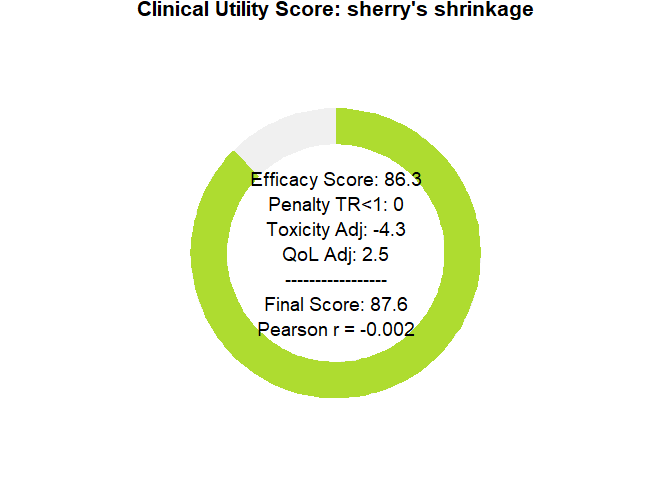
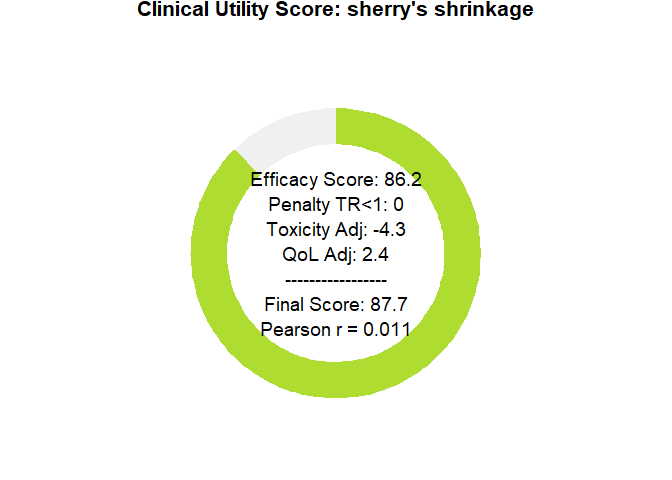
Rebuild README with improved homepage

Changed region(s): [[0.375, 0.625, 0.625, 0.7188], [0.5938, 0.3438, 0.625, 0.4062], [0.5625, 0.5, 0.5938, 0.5625]]

diff --git a/README.md b/README.md
@@ -1,42 +1,69 @@
 
-# bayescores: Comprehensive Quantification of Clinical Benefit in Randomized Controlled Trials Using Bayesian Inference and Multi-Attribute Utility Theory
+# bayescores <img src="man/figures/logo.png" align="right" height="139" />
 
-**`bayescores`** provides a comprehensive toolkit for analyzing
-randomized controlled trials (RCTs). This package introduces the
-**Bayesian Clinical Benefit Scores (BayeScores)**, a novel metric to
-quantify clinical benefit by accounting for both survival prolongation
-and cure rates.
+<!-- badges: start -->
 
-Key Features
+[![R-CMD-check](https://github.com/albertocarm/bayescores/actions/workflows/pkgdown.yaml/badge.svg)](https://github.com/albertocarm/bayescores/actions/workflows/pkgdown.yaml)
+[![Lifecycle:
+experimental](https://img.shields.io/badge/lifecycle-experimental-orange.svg)](https://lifecycle.r-lib.org/articles/stages.html#experimental)
+[![License:
+MIT](https://img.shields.io/badge/License-MIT-blue.svg)](https://opensource.org/licenses/MIT)
+<!-- badges: end -->
 
-- Fit Robust Bayesian Models: Implements Bayesian Accelerated Failure
-  Time (AFT) mixture cure models using Stan. The framework allows you
-  to:
+> **Comprehensive Quantification of Clinical Benefit in Randomized
+> Controlled Trials Using Bayesian Inference and Multi-Attribute Utility
+> Theory**
 
-- Incorporate empirical and skeptical priors to stabilize inference and
-  reduce bias, especially with immature data.
+**`bayescores`** provides a toolkit for analyzing randomized controlled
+trials (RCTs). It introduces the **Bayesian Clinical Benefit Scores
+(BayeScores)**, a novel metric that quantifies clinical benefit by
+jointly accounting for survival prolongation, cure rates, toxicity, and
+quality of life.
 
-- Use the unique properties of AFT mixture cure models to quantify
-  clinical benefit in a novel way.
+## Overview
 
-- Assess Data Maturity: Run a novel non-identifiability test on the
-  model’s parameters. This check serves as a statistical proxy for data
-  maturity, helping to determine if the follow-up is sufficient to
-  reliably estimate the long-term benefit.
+The package implements a full analytical pipeline:
 
-- Calculate Holistic Benefit Scores: Compute the final clinical benefit
-  score, the BayeScores.
+    Trial Data --> Bayesian AFT Cure Model --> Posterior Draws
+                                                   |
+                        +--------------------------+--------------------------+
+                        |                          |                          |
+                  Efficacy Scores          Toxicity Scores            QoL Scores
+                  (TR + Cure Rate)       (Weighted Burden)         (Multinomial)
+                        |                          |                          |
+                        +-----------+--------------+--------------------------+
+                                    |
+                             BayeScores
+                        (Multi-Attribute Utility)
 
-- The score is derived using concave functions to more realistically
-  reflect clinical utility (e.g., ensuring diminishing returns for each
-  additional month of survival).
+## Key Features
 
-- Includes comprehensive visualization tools to display the scores,
-  results, and all model diagnostics.
-
-- Simulate Realistic Scenarios: Generate complex survival data from
+- **Fit Robust Bayesian Models**: Bayesian Accelerated Failure Time
+  (AFT) mixture cure models via Stan.
+  - Incorporate empirical and skeptical priors to stabilize inference
+    and reduce bias, especially with immature data.
+  - Use the unique properties of AFT mixture cure models to quantify
+    clinical benefit in a novel way.
+- **Assess Data Maturity**: A novel non-identifiability test on model
+  parameters serves as a statistical proxy for data maturity, helping
+  determine if follow-up is sufficient to reliably estimate long-term
+  benefit.
+- **Calculate Holistic Benefit Scores**: Compute the BayeScores using
+  concave utility functions that reflect diminishing marginal returns
+  for each additional month of survival.
+- **Visualize Everything**: Comprehensive plotting tools for posterior
+  distributions, donut charts, sensitivity dashboards, AMIT toxicity
+  plots, and model diagnostics.
+- **Simulate Realistic Scenarios**: Generate complex survival data from
   mixture cure models to validate methods, perform power analyses, and
   plan future studies.
+- **Bayesian Shrinkage Priors**: Apply empirical priors from [van Zwet
+  et al. (2021)](https://doi.org/10.1002/sim.9173) or [Sherry et
+  al. (2024)](https://doi.org/10.1200/PO.24.00363) to regularize
+  treatment effects.
+- **IPD Reconstruction**: Reconstruct individual patient data from
+  published Kaplan-Meier curves using the [Guyot et
+  al. (2012)](https://doi.org/10.1186/1471-2288-12-9) algorithm.
 
 ## Installation
 
@@ -224,7 +251,7 @@ print(bayesian_fit$stan_fit, pars = c("beta_cure_arm", "beta_surv_arm", "alpha_c
 #> beta_surv_arm 0.26    0.01 0.29 -0.20 0.06 0.22 0.44  0.90  1677    1
 #> alpha_control 1.22    0.00 0.10  1.02 1.15 1.22 1.29  1.41  1884    1
 #> 
-#> Samples were drawn using NUTS(diag_e) at Fri Jan 30 20:07:42 2026.
+#> Samples were drawn using NUTS(diag_e) at Fri Jan 30 20:17:48 2026.
 #> For each parameter, n_eff is a crude measure of effective sample size,
 #> and Rhat is the potential scale reduction factor on split chains (at 
 #> convergence, Rhat=1).
@@ -560,13 +587,13 @@ cat("--- Final Bayescores Summary ---\n")
 #> --- Final Bayescores Summary ---
 print(final_scores$component_summary)
 #>                        Component    Median Lower_95_CrI.2.5% Upper_95_CrI.97.5%
-#> 1           Utility Cure (0-100) 82.535431           0.00000        93.85172165
-#> 2          Utility TR (for TR>1) 48.801244           0.00000        98.24367936
-#> 3          Penalty TR (for TR<1)  0.000000         -27.23494         0.00000000
-#> 4      Efficacy Score (Combined) 91.451942          65.10802        98.54577821
-#> 5      QoL Contribution (points)  3.953580          -9.68866        20.10829930
-#> 6 Toxicity Contribution (points) -3.268844         -22.13845        -0.05742913
-#> 7            FINAL UTILITY SCORE 92.875119          48.01128        99.87587228
+#> 1           Utility Cure (0-100) 82.535431          0.000000        93.85172165
+#> 2          Utility TR (for TR>1) 48.801244          0.000000        98.24367936
+#> 3          Penalty TR (for TR<1)  0.000000        -27.234938         0.00000000
+#> 4      Efficacy Score (Combined) 91.451942         65.108020        98.54577821
+#> 5      QoL Contribution (points)  3.940021         -9.560371        19.70425563
+#> 6 Toxicity Contribution (points) -3.288842        -22.472809        -0.05507841
+#> 7            FINAL UTILITY SCORE 92.840335         46.636106        99.87624304
 print(final_scores$identifiability_level)
 #> [1] "Strong"
 ```
@@ -684,9 +711,9 @@ comparison <- rbind(
 
 print(comparison)
 #>       prior   Median
-#> 7  unshrunk 92.87512
-#> 71     zwet 78.22219
-#> 72   sherry 87.55711
+#> 7  unshrunk 92.84034
+#> 71     zwet 78.62315
+#> 72   sherry 87.69943
 
 # plot utility donuts for each prior
 plot_utility_donut(final_scores_zwet, trial_name ="Zwet's shrinkage")
@@ -901,50 +928,19 @@ library(bystools)
 
 bystools()
 
-## Why bayescores? a more meaningful approach
+## Why bayescores?
 
-- **Clinically interpretable**: time ratios are easier to explain to
-  clinicians and patients than hazard ratios, and mixture cure models
-  separate short-term survival effects from the long-term survivor
-  fraction. This resolves the problem of “double counting” benefit—first
-  via the HR and again through a separate long-term bonus—ensuring both
-  metrics remain independent.
-- **Incorporates mechanistic knowledge**: allows the encoding of
-  pharmacological context through priors. For example, the model can
-  account for the fact that immunotherapy often produces a “tail” of
-  long-term survivors, whereas agents like CDK4/6 inhibitors or
-  chemotherapy typically yield a temporal delay without a genuine cure
-  fraction.
-- **Resolves identifiability challenges**: uses informed priors to solve
-  “equifinality” in complex datasets (e.g., crossing curves),
-  effectively distinguishing between a genuine biological plateau and an
-  artifact caused by sparse data or heavy censoring.
-- **Contextualizes data maturity**: models the underlying structure
-  rather than just observed events, making the framework resilient to
-  “snapshots” taken at different follow-up times. It quantifies the
-  stability of the survival benefit, preventing premature claims of cure
-  in immature datasets while validating solid plateaus in mature ones.
-- **Embraces uncertainty**: the Bayesian framework propagates
-  uncertainty from all model stages, displaying full posterior
-  distributions rather than collapsing results into single point
-  estimates.
-- **No thresholds**: uses continuous parameters and proportional weights
-  rather than fixed cut-offs, producing smooth, gradual changes in the
-  score. This avoids all-or-nothing jumps and makes the valuation
-  process transparent, reproducible, and customizable to stakeholder
-  priorities.
-- **Integrates multiple dimensions**: combines efficacy, toxicity, and
-  quality of life within a unified decision-analytic framework (MAUT),
-  with hierarchical aggregation that mirrors clinical reasoning:
-  efficacy first, then QoL, then toxicity.
-- **Customizable toxicity weighting**: Weighted Toxicity Scores can
-  incorporate grade-specific and type-specific penalties, reflecting the
-  clinical relevance of different adverse events and aligning with
-  disease-specific “toxicity budgets.”
-- **Accessible implementation**: provided as an open-source R package
-  (`bayescores`) with full workflow examples on GitHub, including KM
-  curve digitization and IPD reconstruction tools, plus a web interface
-  for no-code calculation and visualization.
+| Principle | Description |
+|:---|:---|
+| **Clinically interpretable** | Time ratios are easier to explain than hazard ratios. Mixture cure models separate short-term survival effects from the long-term survivor fraction, avoiding “double counting” of benefit. |
+| **Mechanistic priors** | Encode pharmacological context through priors (e.g., immunotherapy producing long-term survivors vs. CDK4/6 inhibitors yielding temporal delays). |
+| **Identifiability-aware** | Informed priors solve equifinality in complex datasets, distinguishing genuine plateaus from artifacts of sparse data or heavy censoring. |
+| **Data maturity** | Quantifies the stability of survival benefit, preventing premature claims of cure in immature datasets while validating solid plateaus in mature ones. |
+| **Full uncertainty** | Propagates uncertainty from all model stages, displaying posterior distributions rather than collapsing results into point estimates. |
+| **No thresholds** | Continuous parameters and proportional weights produce smooth score changes, avoiding all-or-nothing jumps. |
+| **Multi-dimensional** | Combines efficacy, toxicity, and QoL within a unified MAUT framework with hierarchical aggregation mirroring clinical reasoning. |
+| **Customizable toxicity** | Weighted Toxicity Scores incorporate grade- and type-specific penalties, aligning with disease-specific “toxicity budgets.” |
+| **Open source** | Full workflow examples, KM curve digitization, IPD reconstruction tools, and a Shiny web interface. |
 
 ## Citation
 
